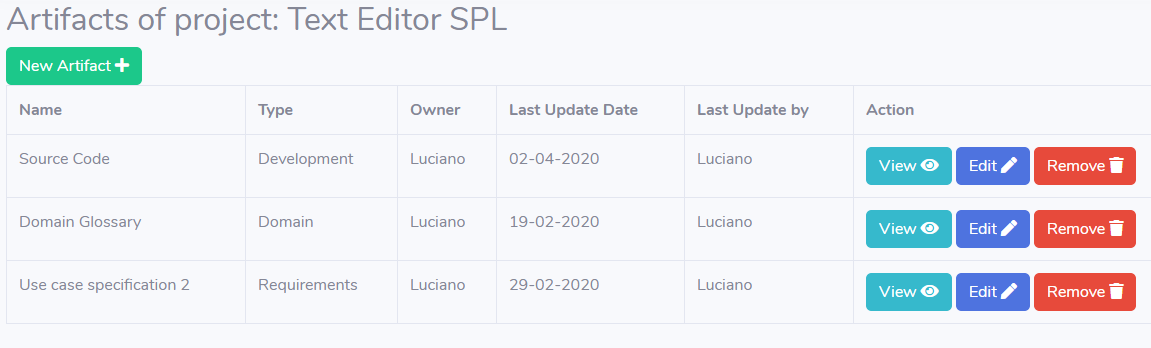
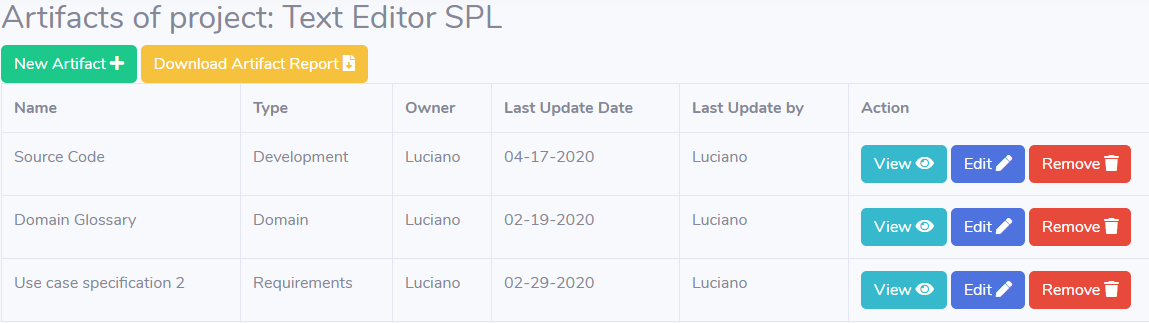
uploading activities report and new screenshots

diff --git a/Tool/paxspl-tool/app/Http/Controllers/ActivityController.php b/Tool/paxspl-tool/app/Http/Controllers/ActivityController.php
@@ -4,6 +4,7 @@ namespace App\Http\Controllers;
 
 use Illuminate\Http\Request;
 use App\Project;
+use App\User;
 use App\AssembleProcess;
 use App\Activity;
 
@@ -145,5 +146,64 @@ class ActivityController extends Controller
 
         return redirect()->route('projects.assemble_process.activities.index', compact('assemble_process', 'project'))
             ->with('success', 'Activity deleted successfully');
+    }
+
+    /**
+     * Generate report 
+     *
+     * @param  \Illuminate\Http\Project  $project
+     * @return \Illuminate\Http\Response
+     */
+
+    public function generateDocx(Project $project,AssembleProcess $assemble_process)
+    {
+        setlocale(LC_TIME, 'es');
+
+        $date = date('m-d-Y');
+
+        $document = new \PhpOffice\PhpWord\TemplateProcessor('../templates/activities.docx');
+
+        
+        $user = User::find(auth()->id());
+        $document->setValue('admin', $user->name);
+        $document->setValue('date', $date);
+        $document->setValue('project', $project->title);
+        $document->setValue('process', $assemble_process->name);
+
+        $activities = $assemble_process->activities;
+        $i = 0;
+        $document->cloneRow('act', count($activities));
+        foreach ($activities as $activity) {
+            $i++;
+            
+            $document->setValue('act#' . $i, $i);
+            $document->setValue('act.name#' . $i, $activity->name);
+            $document->setValue('act.phase#' . $i, $activity->phase);
+            $document->setValue('act.description#' . $i, $activity->description);
+            $document->setValue('act.technique#' . $i, $activity->technique->name); 
+        }
+
+
+
+
+
+
+        $name = 'RetrievalActivitysSelected-' .  "$date" . '.docx';
+
+
+
+
+
+        $headers = array(
+            //'Content-Type: application/msword',
+            'Content-Type: vnd.openxmlformats-officedocument.wordprocessingml.document'
+        );
+
+        try {
+            $document->saveAs(storage_path($name));
+        } catch (Exception $e) {
+        }
+
+        return response()->download(storage_path($name));
     }
 }

diff --git a/Tool/paxspl-tool/routes/web.php b/Tool/paxspl-tool/routes/web.php
@@ -27,6 +27,7 @@ Route::resource('projects.assemble_process.activities', 'ActivityController');
 Route::get('projects/{project}/teams_generate/', 'TeamController@generateDocx');
 Route::get('projects/{project}/artifact_generate/', 'ArtifactController@generateDocx');
 Route::get('projects/{project}/technique_generate/', 'TechniqueProjectController@generateDocx');
+Route::get('projects/{project}/assemble_process/{assemble_process}/activities_generate', 'ActivityController@generateDocx');
 
 Route::get('/', 'HomeController@index')->name('home')->middleware('auth');
 Route::get('/home', 'HomeController@index')->name('home')->middleware('auth');

diff --git a/Tool/paxspl-tool/resources/views/projects/artifact/index.blade.php b/Tool/paxspl-tool/resources/views/projects/artifact/index.blade.php
@@ -59,7 +59,7 @@
                     <td>{{ $artifact->name }}</td>
                     <td>{{ $artifact->type }}</td>
                     <td>{{ $artifact->owner->name }}</td>
-                    <td>{{ date('d-m-Y', strtotime($artifact->last_update_date))}}</td>
+                    <td>{{ date('m-d-Y', strtotime($artifact->last_update_date))}}</td>
                     <td>{{ $artifact->update_user->name }}</td>
 
 

diff --git a/Tool/paxspl-tool/resources/views/projects/assemble_process/activities/index.blade.php b/Tool/paxspl-tool/resources/views/projects/assemble_process/activities/index.blade.php
@@ -69,6 +69,7 @@
             </div>
         </div>
 
+        <a class="btn btn-primary btn-warning" href="{{action('ActivityController@generateDocx',['project' => $project, 'assemble_process' => $assemble_process])}}">Download Activities Report <i class="fas fa-file-download"></i></a>
 
         <div class="card shadow mb-4">
             <!-- Card Header - Accordion -->
